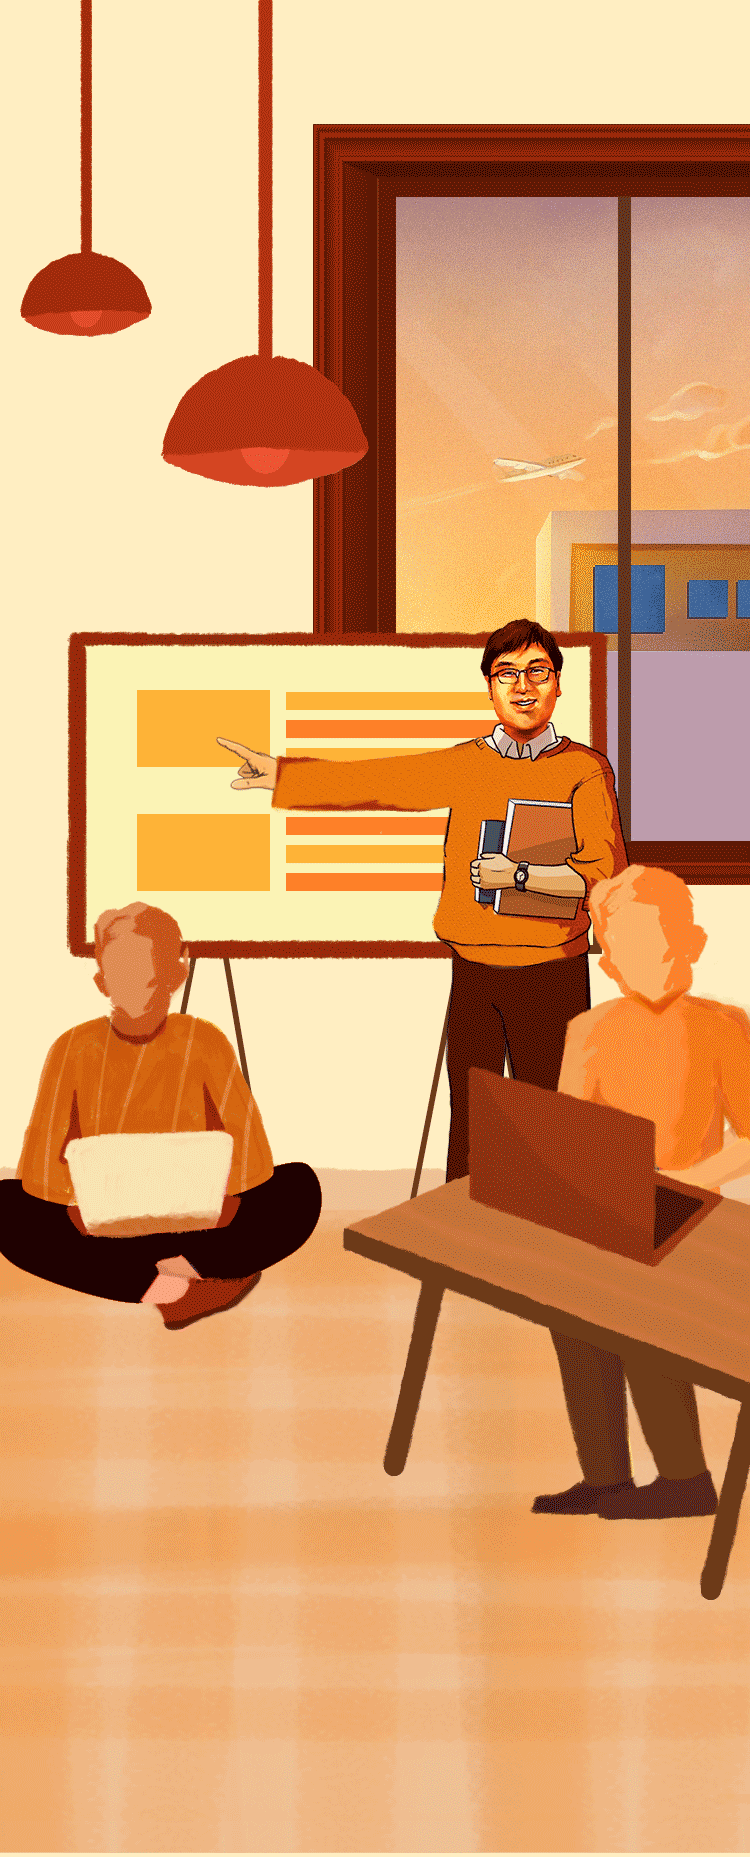
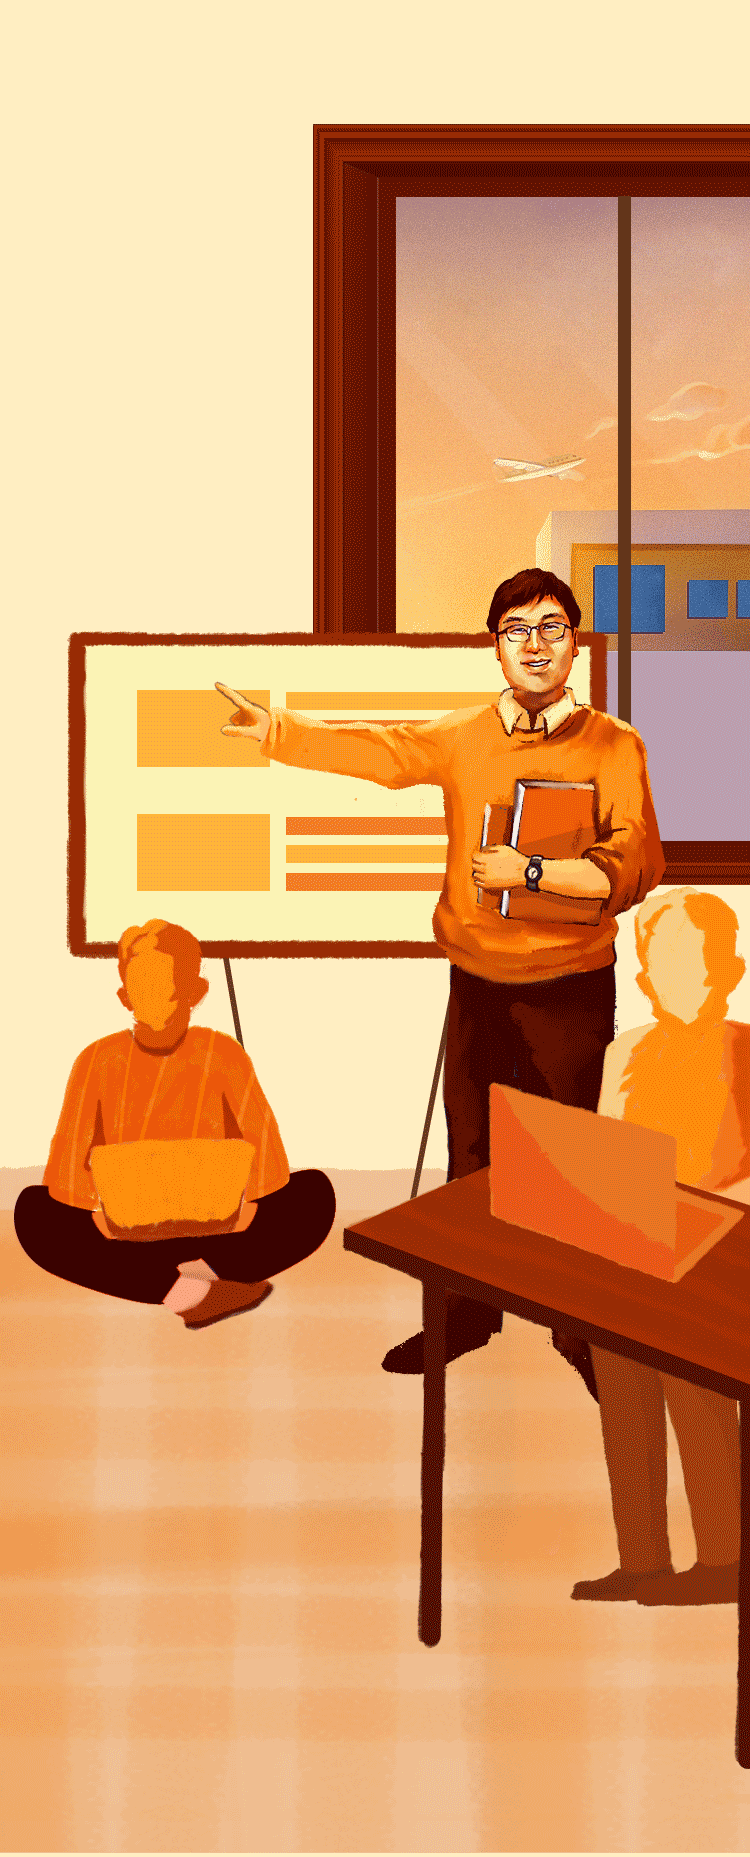
画中画

Changed region(s): [[0.0, 0.0, 1.0, 0.9682], [0.0307, 0.0, 0.2147, 0.1874]]

diff --git a/index1.html b/index1.html
@@ -210,6 +210,10 @@
     </div>
     <div class="p5" id="p5">
       <div class="p5-scroll">
+        <div class="lamp">
+          <img src="./h5imgs/page5/liuyan-lamp.png" alt="" style="width:100%;">
+          <img class="light" src="./h5imgs/page5/liuyan-light.png" alt="">
+        </div>
         <div class="liuyan scene">
           <img src="./h5imgs/page5/liuyan.png" alt="" style="width:100%;">
         </div>
@@ -889,6 +893,14 @@
       })
       tl5.to("#p5 .liuyan", 10, {
         transform: 'scale(1)',
+        ease: Linear.easeOut,
+      })
+      tl5.to("#p5 .lamp", 1, {
+        transform: 'translateY(0)',
+        ease: Linear.easeOut,
+      })
+      tl5.to("#p5 .light", 1, {
+        opacity:1,
         ease: Linear.easeOut,
       })
       var scene5 = new ScrollMagic.Scene({

diff --git a/css/p5.css b/css/p5.css
@@ -17,3 +17,17 @@
   transform-origin: 544px 378px;
   transform: scale(6);
 }
+.lamp {
+  position: absolute;
+  width:100%;
+  top:0;
+  z-index:1;
+  transform: translateY(-100%);
+}
+.lamp .light {
+  position: absolute;
+  width:100%;
+  height:auto;
+  top:0;
+  opacity: 0;
+}
